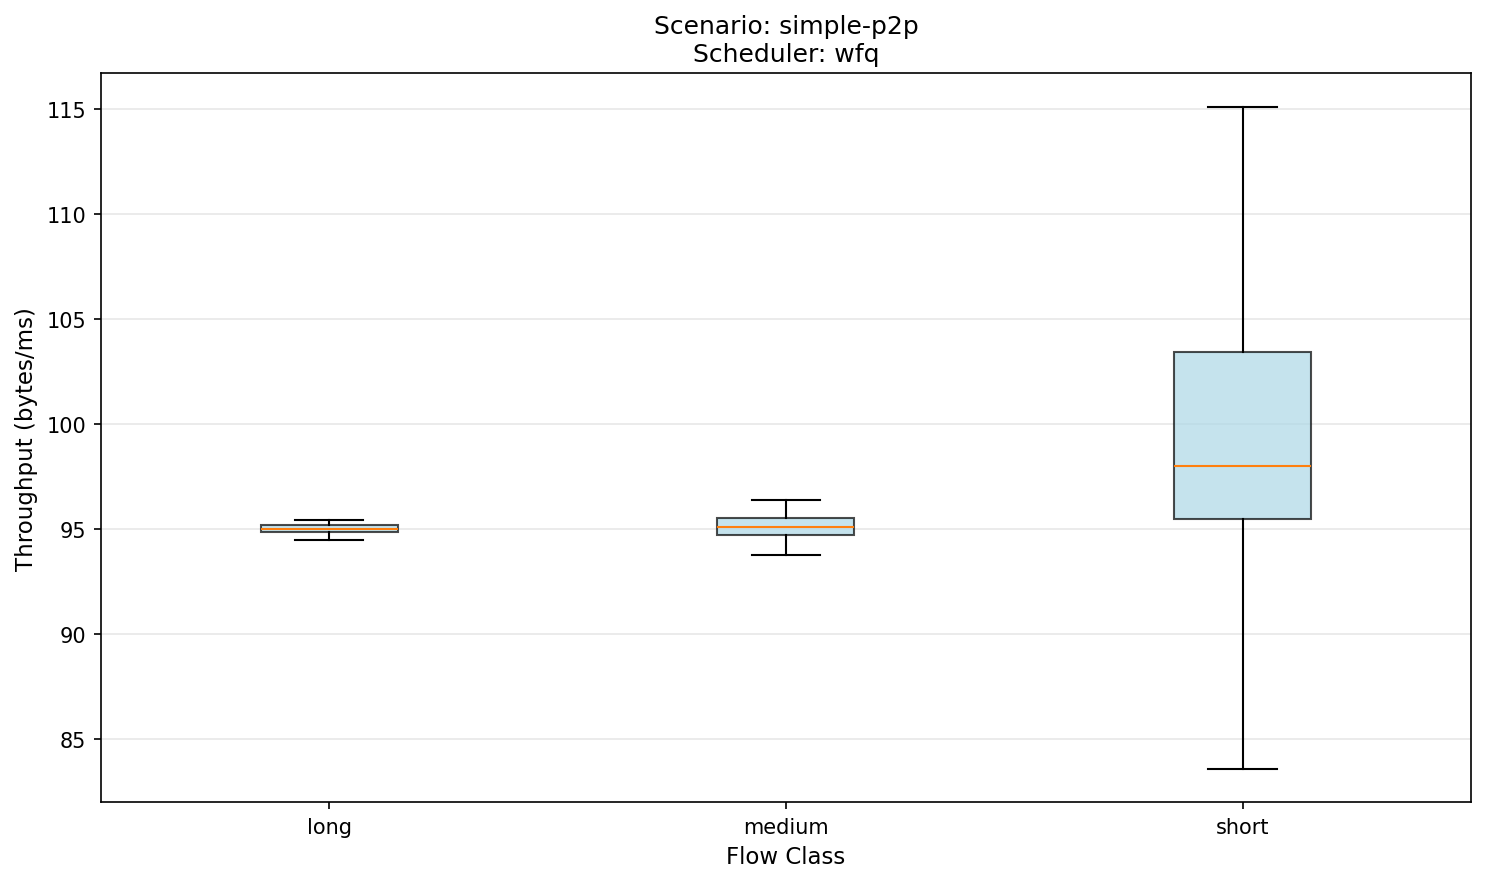
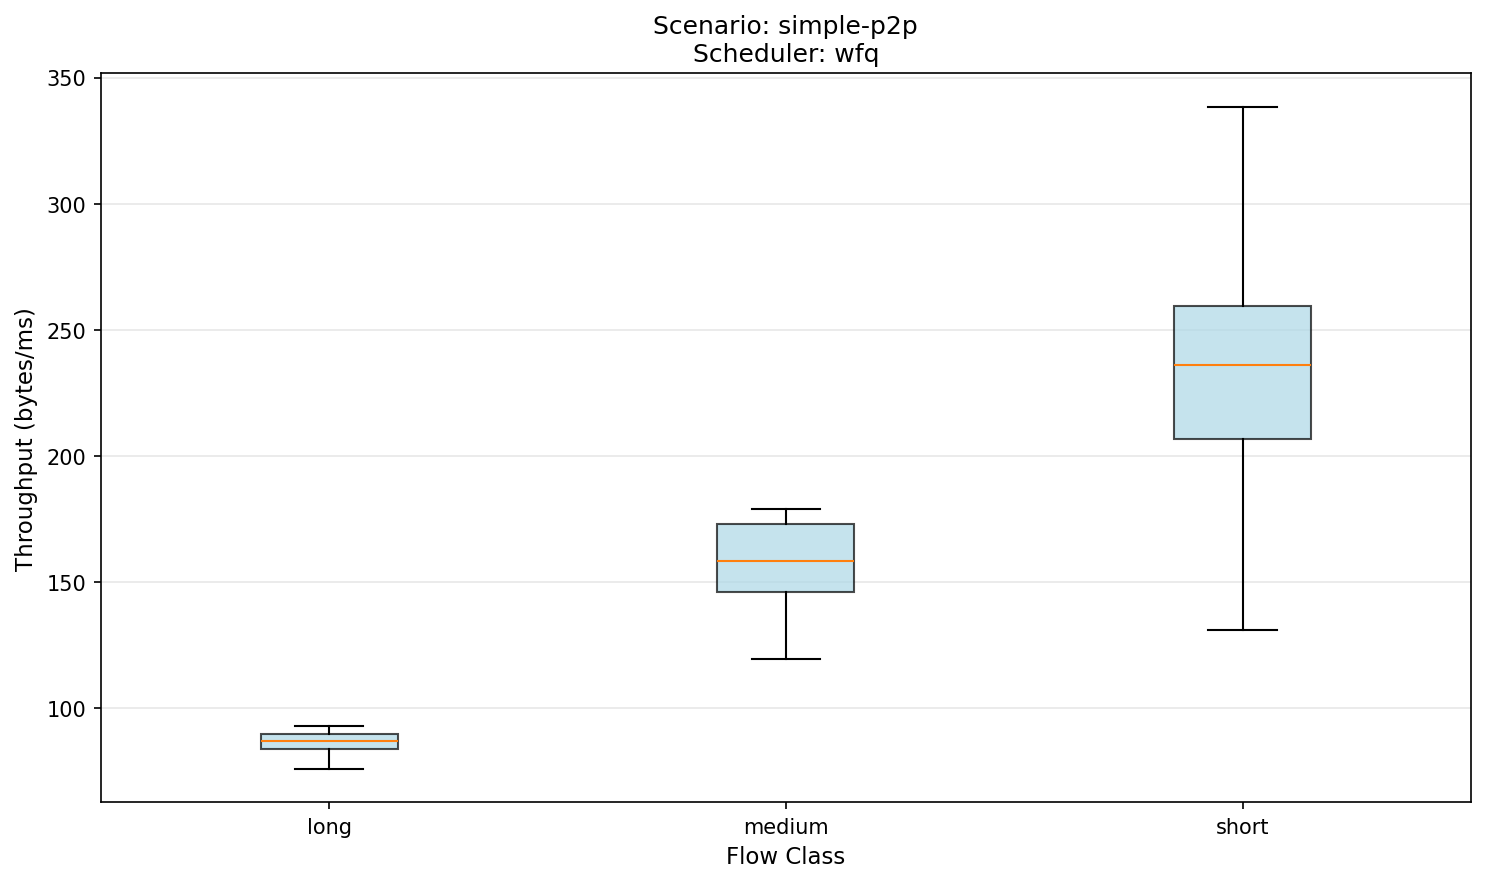
Modified script to include plottings

diff --git a/analysis/run.py b/analysis/run.py
@@ -5,7 +5,7 @@ import numpy as np
 import matplotlib.pyplot as plt
 from scipy.stats import skew as sp_skew, kurtosis as sp_kurtosis
 
-LOG_DIR = "../logs/server"
+LOG_DIR = "../csv"
 OUT_SUMMARY = "./results/summary_by_class.csv"
 
 # TODO: maybe compute what quantum gives the lowest sct for short
@@ -25,7 +25,7 @@ OUT_SUMMARY = "./results/summary_by_class.csv"
 # TODO: maybe we care about 99 percentile of short flow sct or something like that
 #   since if we have a long tail maybe some are dragging the mean down
 
-# maybe an overall score: score= w1⋅mean_short + w2⋅p99_short + w3⋅skew_short
+# maybe an overall score: score= w1â€‹â‹…mean_short â€‹+ w2â€‹â‹…p99_short â€‹+ w3â€‹â‹…skew_short
 
 def parse_filename(path):
     '''
@@ -73,9 +73,13 @@ def parse_filename(path):
     e.g., compute the mean, std, skew, kurt of short flows in xyz scenario
 '''
 def compute_moments(class_name, group):
-
-    x = group["sct_ms"].values.astype(float)
-    n = len(x)
+    bytes_vals = group["bytes"].values.astype(float)
+    sct_vals = group["sct_ms"].values.astype(float)
+    valid_mask = sct_vals > 0
+    bytes_vals = bytes_vals[valid_mask]
+    sct_vals = sct_vals[valid_mask]
+    throughput = bytes_vals / sct_vals
+    n = len(throughput)
 
     if n == 0:
         print(f"no data for class {class_name}")
@@ -87,10 +91,10 @@ def compute_moments(class_name, group):
             "kurtosis": None,
         })
 
-    mean = np.mean(x)
-    std = np.std(x, ddof=1)
-    sk = sp_skew(x, bias=False)
-    kt = sp_kurtosis(x, bias=False)
+    mean = np.mean(throughput)
+    std = np.std(throughput, ddof=1)
+    sk = sp_skew(throughput, bias=False)
+    kt = sp_kurtosis(throughput, bias=False)
 
     return pd.Series({
         "count": n,
@@ -123,11 +127,186 @@ get best quantum for eahc scenario
 '''
 def get_best_quantum(path):
     pass
+
+'''
+for plotting time series of throughput for short flows
+'''
+def plot_throughput_timeseries(df, meta):
+    """
+    Create time series plot of throughput for short flows only
+    """
+    # Filter for short flows only
+    df_short = df[df["class"] == "short"].copy()
+    
+    if len(df_short) == 0:
+        print(f"  No short flows found for time series plot")
+        return
+    
+    # Calculate throughput
+    df_short["throughput"] = df_short["bytes"].astype(float) / df_short["sct_ms"].astype(float)
+    
+    # Filter valid data
+    valid_mask = df_short["sct_ms"] > 0
+    df_short = df_short[valid_mask]
+    
+    # Sort by time
+    df_short = df_short.sort_values("time_ms")
+    
+    # Create figure
+    fig, ax = plt.subplots(figsize=(12, 6))
+    
+    # Plot throughput over time
+    ax.scatter(df_short["time_ms"], df_short["throughput"], alpha=0.5, s=20, color='steelblue')
+    
+    # Add moving average for trend line
+    window_size = max(10, len(df_short) // 50)  # Adaptive window size
+    if len(df_short) >= window_size:
+        df_short['throughput_ma'] = df_short['throughput'].rolling(window=window_size, center=True).mean()
+        ax.plot(df_short["time_ms"], df_short["throughput_ma"], color='red', linewidth=2, label=f'Moving Avg (n={window_size})')
+        ax.legend()
+    
+    # Labels and title
+    title_parts = []
+    if meta["scenario"]:
+        title_parts.append(f"Scenario: {meta['scenario']}")
+    if meta["scheduler"]:
+        title_parts.append(f"Scheduler: {meta['scheduler']}")
+    if meta["quantum0"] is not None:
+        title_parts.append(f"Quantum: {meta['quantum0']}-{meta['quantum1']}-{meta['quantum2']}")
+    title_parts.append("(Short Flows Only)")
+    
+    ax.set_title("\n".join(title_parts), fontsize=12)
+    ax.set_xlabel("Time (ms)", fontsize=11)
+    ax.set_ylabel("Throughput (bytes/ms)", fontsize=11)
+    ax.grid(True, alpha=0.3)
+    
+    plt.tight_layout()
+    
+    # Save figure
+    os.makedirs("./results/plots", exist_ok=True)
+    output_path = f"./results/plots/{meta['file']}_timeseries.png"
+    plt.savefig(output_path, dpi=150, bbox_inches='tight')
+    print(f"  Saved time series plot to {output_path}")
+    plt.close()
+
 '''
 for plotting
 '''
-def plot_sct(df):
-    pass
+def plot_throughput_boxplot(df, meta):
+    """
+    Create box plot of throughput by class for a given scenario
+    WITHOUT showing outlier points
+    """
+    # Calculate throughput for each flow
+    bytes_vals = df["bytes"].values.astype(float)
+    sct_vals = df["sct_ms"].values.astype(float)
+    valid_mask = sct_vals > 0
+    
+    df_plot = df[valid_mask].copy()
+    df_plot["throughput"] = df_plot["bytes"].astype(float) / df_plot["sct_ms"].astype(float)
+    
+    # Create figure
+    fig, ax = plt.subplots(figsize=(10, 6))
+    
+    # Get unique classes and create box plot WITHOUT outliers
+    classes = sorted(df_plot["class"].unique())
+    data_by_class = [df_plot[df_plot["class"] == c]["throughput"].values for c in classes]
+    
+    # showfliers=False removes the outlier points
+    bp = ax.boxplot(data_by_class, labels=classes, patch_artist=True, showfliers=False)
+    
+    # Customize colors
+    for patch in bp['boxes']:
+        patch.set_facecolor('lightblue')
+        patch.set_alpha(0.7)
+    
+    # Labels and title
+    title_parts = []
+    if meta["scenario"]:
+        title_parts.append(f"Scenario: {meta['scenario']}")
+    if meta["scheduler"]:
+        title_parts.append(f"Scheduler: {meta['scheduler']}")
+    if meta["quantum0"] is not None:
+        title_parts.append(f"Quantum: {meta['quantum0']}-{meta['quantum1']}-{meta['quantum2']}")
+    
+    ax.set_title("\n".join(title_parts), fontsize=12)
+    ax.set_xlabel("Flow Class", fontsize=11)
+    ax.set_ylabel("Throughput (bytes/ms)", fontsize=11)
+    ax.grid(True, alpha=0.3, axis='y')
+    
+    plt.tight_layout()
+    
+    # Save figure
+    os.makedirs("./results/plots", exist_ok=True)
+    output_path = f"./results/plots/{meta['file']}_boxplot.png"
+    plt.savefig(output_path, dpi=150, bbox_inches='tight')
+    print(f"  Saved plot to {output_path}")
+    plt.close()
+
+def plot_throughput_timeseries(df, meta):
+    """
+    Create time series plot of throughput over time for each class
+    Removes outliers from visualization using IQR method
+    """
+    # Calculate throughput for each flow
+    bytes_vals = df["bytes"].values.astype(float)
+    sct_vals = df["sct_ms"].values.astype(float)
+    time_vals = df["time_ms"].values.astype(float)
+    valid_mask = sct_vals > 0
+    
+    df_plot = df[valid_mask].copy()
+    df_plot["throughput"] = df_plot["bytes"].astype(float) / df_plot["sct_ms"].astype(float)
+    
+    # Create figure
+    fig, ax = plt.subplots(figsize=(12, 6))
+    
+    # Plot each class with different colors
+    classes = sorted(df_plot["class"].unique())
+    colors = {'short': '#FF6B6B', 'medium': '#4ECDC4', 'long': '#45B7D1'}
+    
+    for class_name in classes:
+        class_data = df_plot[df_plot["class"] == class_name].sort_values("time_ms").copy()
+        
+        # Remove outliers using IQR method for plotting only
+        Q1 = class_data["throughput"].quantile(0.25)
+        Q3 = class_data["throughput"].quantile(0.75)
+        IQR = Q3 - Q1
+        lower_bound = Q1 - 1.5 * IQR
+        upper_bound = Q3 + 1.5 * IQR
+        
+        # Filter out outliers for plotting only
+        class_data_filtered = class_data[
+            (class_data["throughput"] >= lower_bound) & 
+            (class_data["throughput"] <= upper_bound)
+        ]
+        
+        color = colors.get(class_name, '#95A5A6')
+        ax.scatter(class_data_filtered["time_ms"], class_data_filtered["throughput"], 
+                  label=class_name, alpha=0.6, s=20, color=color)
+    
+    # Labels and title
+    title_parts = []
+    if meta["scenario"]:
+        title_parts.append(f"Scenario: {meta['scenario']}")
+    if meta["scheduler"]:
+        title_parts.append(f"Scheduler: {meta['scheduler']}")
+    if meta["quantum0"] is not None:
+        title_parts.append(f"Quantum: {meta['quantum0']}-{meta['quantum1']}-{meta['quantum2']}")
+    
+    ax.set_title("\n".join(title_parts), fontsize=12)
+    ax.set_xlabel("Time (ms)", fontsize=11)
+    ax.set_ylabel("Throughput (bytes/ms)", fontsize=11)
+    ax.legend(loc='best')
+    ax.grid(True, alpha=0.3)
+    
+    plt.tight_layout()
+    
+    # Save figure
+    os.makedirs("./results/plots", exist_ok=True)
+    output_path = f"./results/plots/{meta['file']}_timeseries.png"
+    plt.savefig(output_path, dpi=150, bbox_inches='tight')
+    print(f"  Saved time series plot to {output_path}")
+    plt.close()
 
 def main():
 
@@ -149,6 +328,8 @@ def main():
         meta = parse_filename(f)
         df = pd.read_csv(f, sep=',')
         print_sct_stats(df)
+        plot_throughput_boxplot(df, meta)
+        plot_throughput_timeseries(df, meta)
     
 if __name__ == "__main__":
     main()
